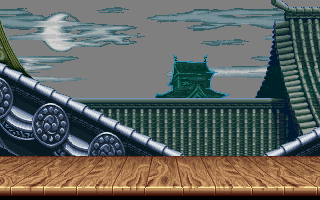
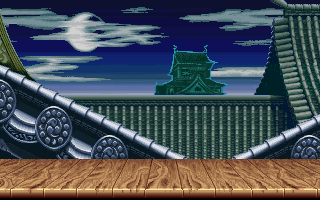
- Added Groepaz's keyboard scanning routine so I could detect escape key (for now, I'm just jumping back to title-screen with it) - refined the static background for ryu-stage - some optimisations (avoiding modulo)

diff --git a/main.c b/main.c
@@ -28,6 +28,10 @@ int building_idx=0;
 int fence_idx=0;
 int temple_idx=0;
 
+enum { GAME_TITLE, GAME_MAIN, GAME_OPTIONS };
+
+unsigned char gamestate = GAME_MAIN;
+
 enum anim_ids
 {
   RYU_IDLE,
@@ -403,9 +407,31 @@ void animate_sprite(sprite_detail* spr)
   }
 }
 
+unsigned keycode;
+unsigned char col;
+
+void real_keyboard(void)
+{
+	keycode = 0;
+	__asm__ ( "jsr $4800" );
+	__asm__ ( "bcc rkskip" );
+	__asm__ ( "sta %v", keycode );
+  __asm__ ( "rkskip:" );
+	__asm__ ( "lda #$0" );	// set DDR for CIA-portA back to input so we can read joyport2 again
+  __asm__ ( "sta $dc02" );
+
+	// check for escape key
+	if (keycode == 0x77)
+	{
+		gamestate = GAME_TITLE;
+	}
+}
+
 void get_keyboard_input(void)
 {
   unsigned char key;
+
+  real_keyboard();
 
   // JOYSTICK: left=4, right=8, up=1, down=2, fire=16
   key  = (~Peek(56320U)) & 31; //cgetc();
@@ -932,19 +958,17 @@ void calc_absolute_addresses(void)
 }
 
 
-enum { GAME_TITLE, GAME_MAIN };
-
-unsigned char gamestate = GAME_MAIN;
-
 void game_title(void)
 {
   unsigned char key;
 
-  //draw_anim_frame(TITLE, 0, 0, 25);
+	// jump back to the currently visible page and draw on that
+	if (draw_page == 1)
+		vicbase=0x0000;
+	else
+		vicbase=0x4000;
+	
   draw_bitmap(TITLE, 0, 0);
-  // TODO: draw title screen via new segmented bitmap technique...
-  // ...need to locate segged_bitmap array at 0x1000
-  // ...that are should match the content of the "bmp_meta.bin" file
 
   while(1)
   {
@@ -992,17 +1016,17 @@ void game_main(void)
   //__asm__ ( "jsr $4800" );
 
 	// draw temple
-	draw_bitmap(STAGE_RYU_TEMPLE1 + ((unsigned int)(temple_idx>>2) % 8), 10 - (temple_idx>>5), 4);
+	draw_bitmap(STAGE_RYU_TEMPLE1 + ((unsigned int)(temple_idx>>2) & 0x07), 10 - (temple_idx>>5), 4);
 
 	// draw fence
-	draw_cropped_bitmap(STAGE_RYU_FENCE_LEFT1 + ((unsigned int)(fence_idx>>1) % 8), 0 - (fence_idx>>4), 12);
+	draw_cropped_bitmap(STAGE_RYU_FENCE_LEFT1 + ((unsigned int)(fence_idx>>1) & 0x07), 0 - (fence_idx>>4), 12);
 
-	draw_cropped_bitmap(STAGE_RYU_FENCE_RIGHT1 + ((unsigned int)(fence_idx>>1) % 8), 25 - (fence_idx>>4), -1);
+	draw_cropped_bitmap(STAGE_RYU_FENCE_RIGHT1 + ((unsigned int)(fence_idx>>1) & 0x07), 25 - (fence_idx>>4), -1);
 
 	// draw building
-	draw_cropped_bitmap(STAGE_RYU_BUILDING_LEFT1 + ((unsigned int)building_idx % 8), -8 - (building_idx>>3), -2);
+	draw_cropped_bitmap(STAGE_RYU_BUILDING_LEFT1 + ((unsigned int)building_idx & 0x07), -8 - (building_idx>>3), -2);
 
-	draw_cropped_bitmap(STAGE_RYU_BUILDING_RIGHT1 + ((unsigned int)building_idx % 8), 26 - (building_idx>>3), 11);
+	draw_cropped_bitmap(STAGE_RYU_BUILDING_RIGHT1 + ((unsigned int)building_idx & 0x07), 26 - (building_idx>>3), 11);
 
 	// draw floor at desired index
 	draw_fullwidth_bitmap(STAGE_RYU_FLOOR00 + floor_idx, 0, 20);
